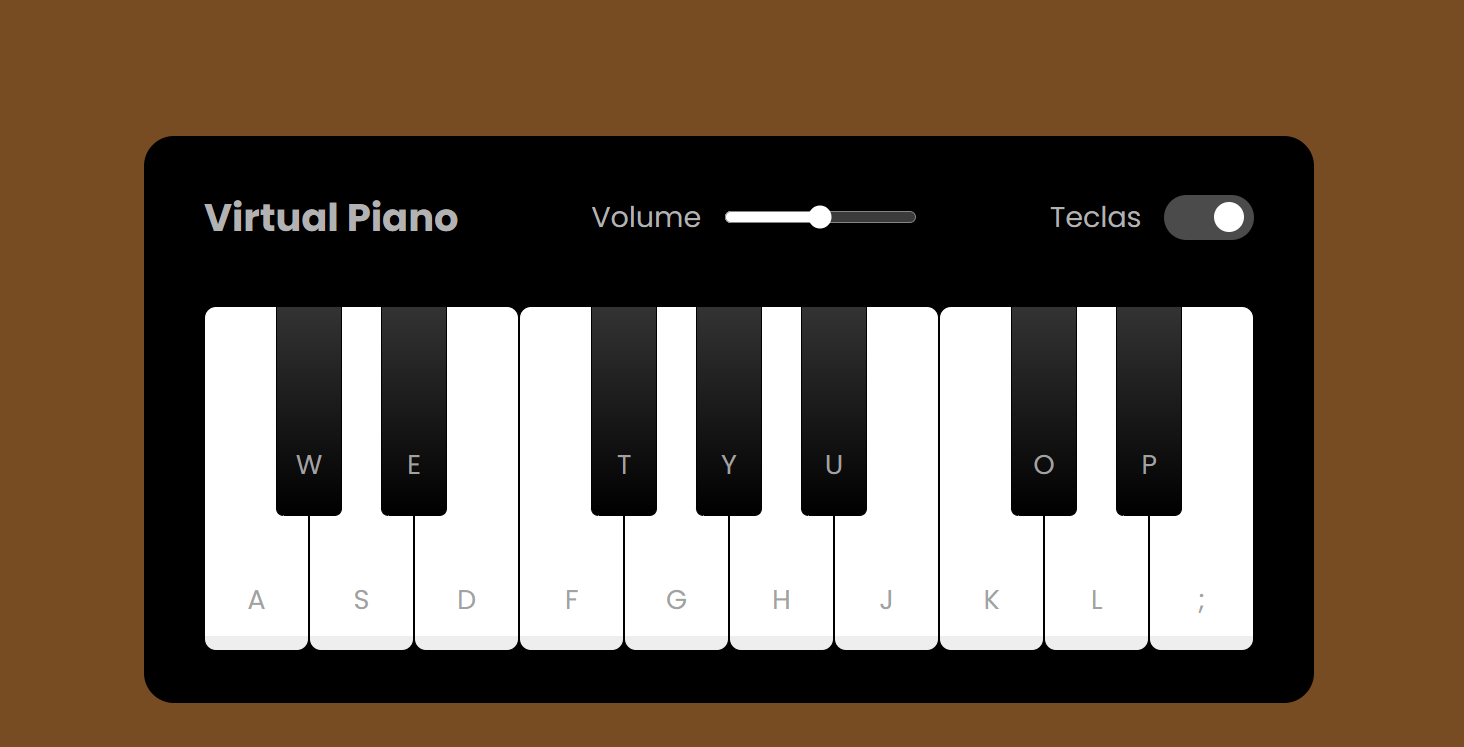
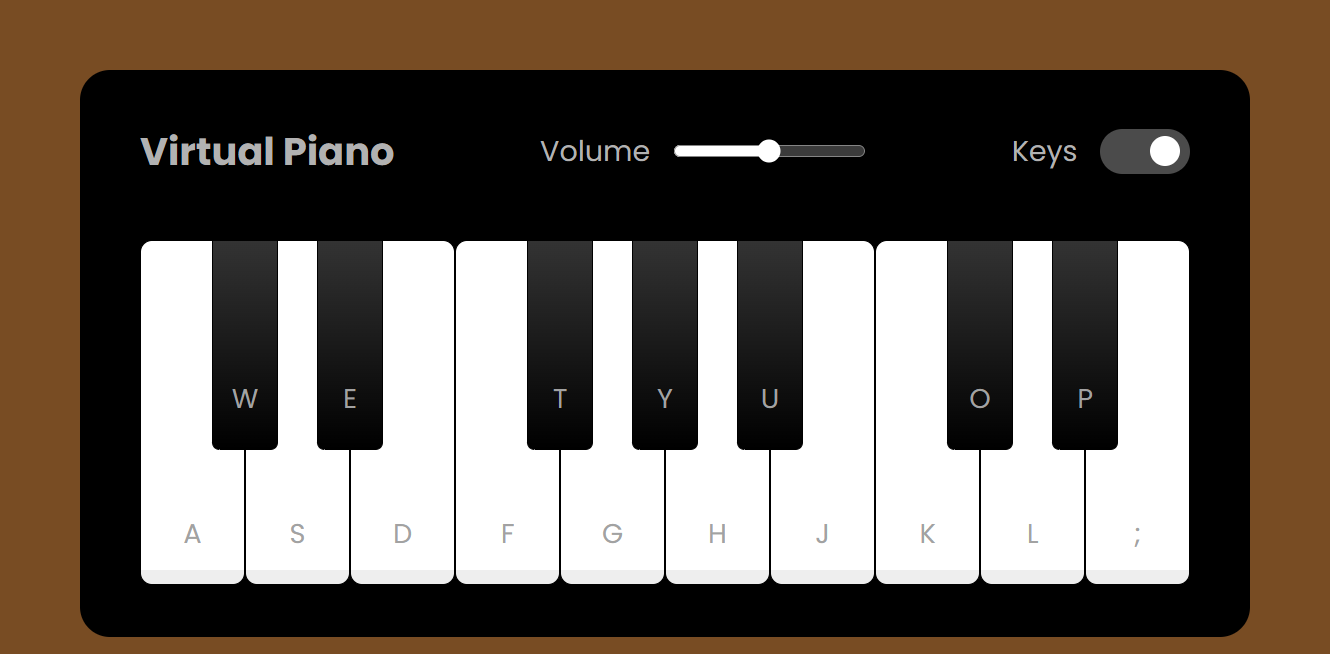
teclas to keys

diff --git a/index.html b/index.html
@@ -26,7 +26,7 @@
           <input type="range" min="0" max="1" value="0.5" step="any" />
         </div>
         <div class="column keys-check">
-          <span>Teclas</span> <input type="checkbox" checked />
+          <span>Keys</span> <input type="checkbox" checked />
         </div>
       </header>
       <ul class="piano-keys">
